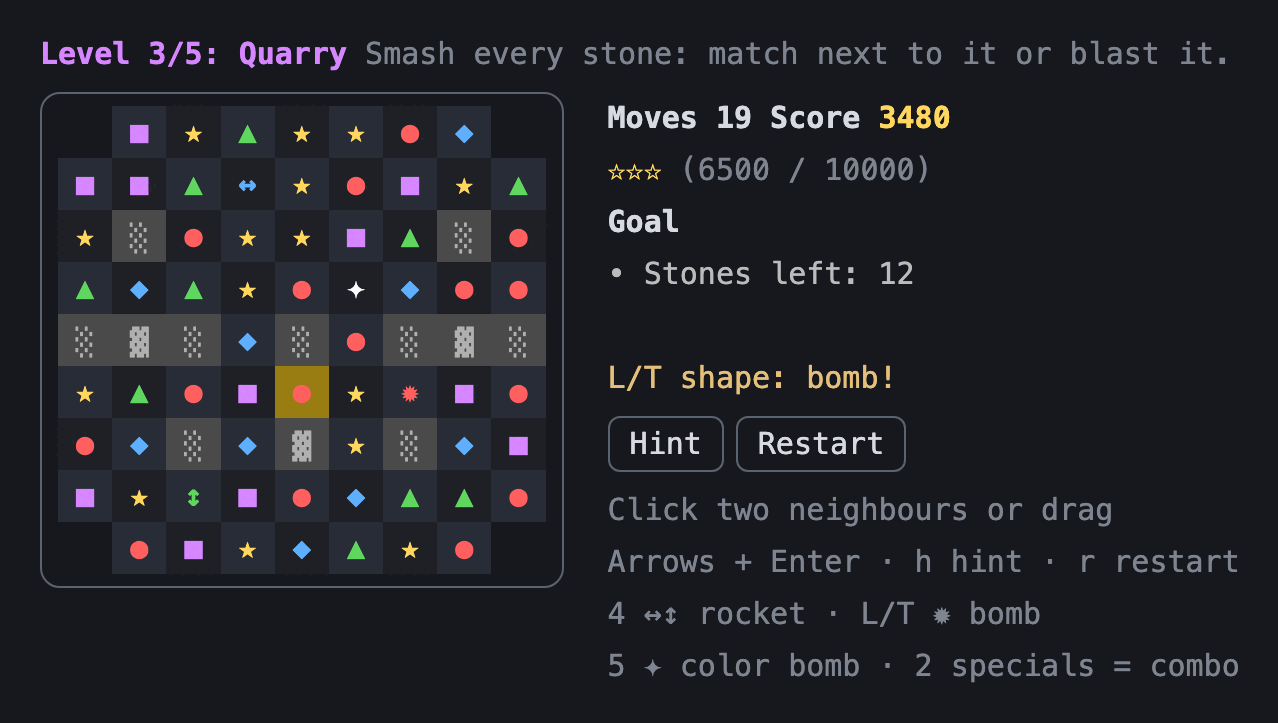
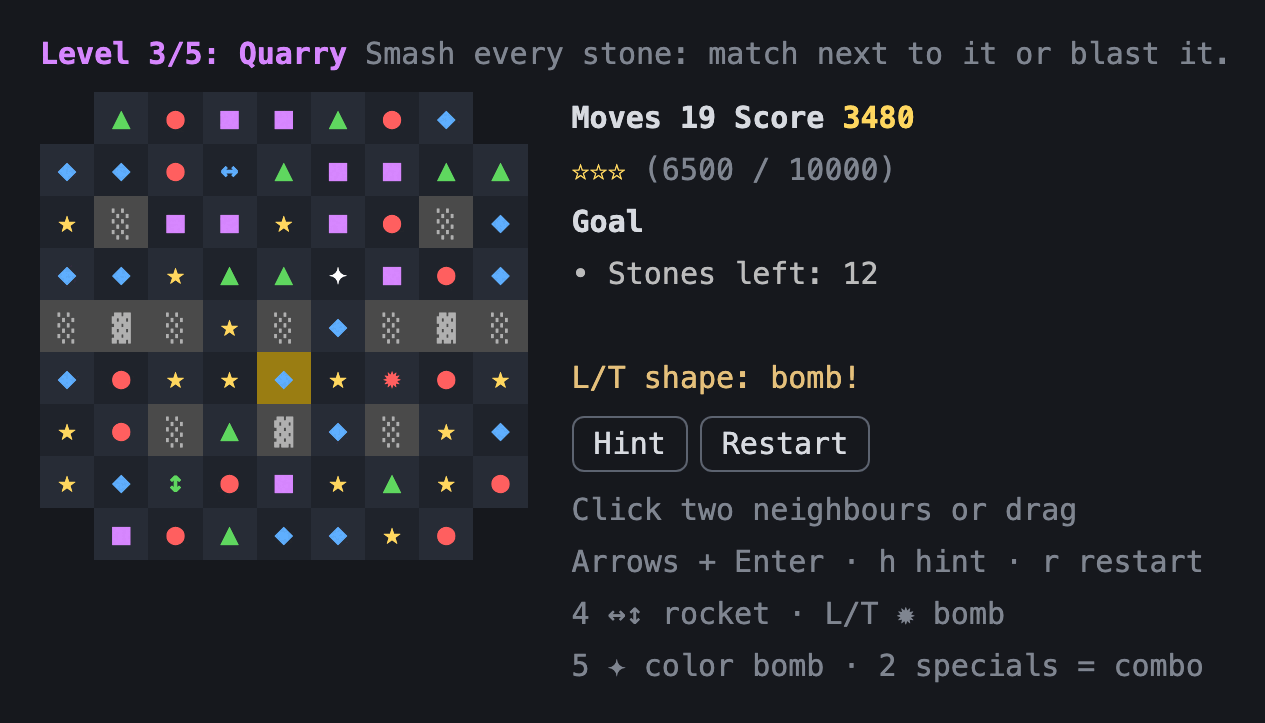
Make the whole cell clickable and refresh the README picture

diff --git a/hooks/game.tsx b/hooks/game.tsx
@@ -191,6 +191,15 @@ function cellLook(g: Game, i: number, showCursor: boolean): Look {
   return { ...look, bg, justify: slide?.justify ?? 'center' }
 }
 
+// The glyph padded to the cell's full width with no-break spaces (which no
+// surface collapses), so the whole cell is drawn text, not just its middle.
+function cellText(look: Look): string {
+  const pad = '\u00a0'
+  if (look.justify === 'flex-start') return look.ch + pad + pad
+  if (look.justify === 'flex-end') return pad + pad + look.ch
+  return pad + look.ch + pad
+}
+
 function stars(n: number): string {
   return '★'.repeat(n) + '☆'.repeat(3 - n)
 }
@@ -203,8 +212,8 @@ function Board(surface: Surface, g: Game, showCursor: boolean) {
     for (let c = 0; c < g.C; c++) {
       const look = cellLook(g, r * g.C + c, showCursor)
       cells.push(
-        <Box width={CELL_W} height={1} flexShrink={0} justifyContent={look.justify} overflow="hidden" backgroundColor={look.bg}>
-          <Text color={look.color} bold={look.bold}>{look.ch}</Text>
+        <Box width={CELL_W} height={1} flexShrink={0} overflow="hidden" backgroundColor={look.bg}>
+          <Text color={look.color} bold={look.bold} backgroundColor={look.bg}>{cellText(look)}</Text>
         </Box>,
       )
     }
